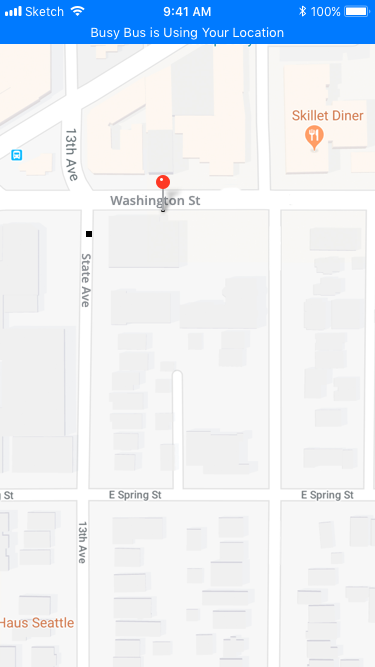
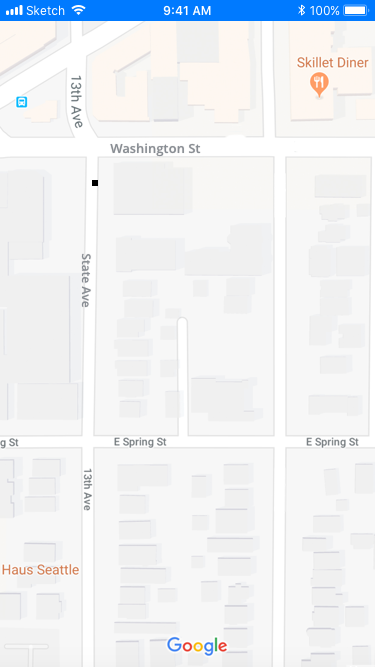
Add files via upload

diff --git a/index.html b/index.html
@@ -10,76 +10,78 @@
     <section class="container">
       <section class="map">
         <img src="images/map.png">
-        </section>
+      </section>
       <nav class="navbox">
-        <img src="images/backarrow.png" class="backarrow">
+        <img src="images/chevron-left.png" class="chevron">
         <div class="busstop">
-            <p><img src="images/stopboxsm.png"> Service at</p>
-            <h2>State & Washington</h2>
-          </div>
+          <h2>State & Washington</h2>
+        </div>
       </nav>
       <nav class="toolbar">
-            <img src="images/toolbar.png">
-          </nav>
+        <img src="images/toolbar.png">
+      </nav>
+      <section class="shadow">
+        <img src="images/pin.png" class="pin">
+      </section>
       <section class="comingup">
         <h3>Coming up</h3>
         <ul class="routediv">
-            <li class="routes">
-              <em class="routenumber">60</em>
-              <div class="destination">
-                <p>To <em class="enddestionation">Randolph/Harbor Dr</em></p>
-                <p><h4>2 </h4>min &bull; 22 min &bull; 42 min</p>
-              </div>
-            </li>
-            <li class="routes">
-              <em class="routenumber">124</em>
-              <div class="destination">
-                <p>To <em class="enddestionation">Navy Pier</em></p>
-                <p><h4>8 </h4>min <em class="alert">(2 min late) </em>&bull; 16 min &bull; 26 min</p>
-              </div>
-            </li>
-            <li class="routes">
-              <em class="routenumber">151</em>
-              <div class="destination">
-                <p>To <em class="enddestionation">Devon/Clark</em></p>
-                <p><h4>13 </h4>min &bull; 29 min &bull; 45 min</p>
-              </div>
-            </li>
-            <li class="routes">
-              <em class="routenumber">J14</em>
-              <div class="destination">
-                <p>To <em class="enddestionation">103rd/Stony Island</em></p>
-                <p><h4>13 </h4>min &bull; 28 min &bull; 43 min</p>
-              </div>
-            </li>
-            <li class="routes">
-              <em class="routenumber">4</em>
-                <div class="destination">
-                  <p>To <em class="enddestionation">Cottage Grove</em></p>
-                  <p class="resumesat">Resumes 12:10am</p>
-                </div>
-              </li>
-            <li class="routes">
-              <em class="routenumber">20</em>
-               <div class="destination">
-                 <p>To <em class="enddestionation">Madison</em></p>
-                 <p class="resumesat">Resumes 12:10am</p>
-               </div>
-             </li>
-            <li class="routes">
-              <em class="routenumber">157</em>
-               <div class="destination">
-                 <p>To <em class="enddestionation">Streeterville/Taylor</em></p>
-                 <p class="resumesat">Resumes 6:00am</p>
-               </div>
-            </li>
-            <li class="routes">
-              <em class="routenumber">6x</em>
-               <div class="destination">
-                 <p>To <em class="enddestionation">Jackson Park - Express</em></p>
-                 <p class="resumesat"><em class="alert">Reroute: See details</em></p>
-               </div>
-            </li>
+          <li class="routes">
+            <em class="routenumber">60</em>
+            <div class="destination">
+              <p>To <em class="enddestionation">Randolph/Harbor Dr</em></p>
+              <p><h4>2 </h4>min &bull; 22 min &bull; 42 min</p>
+            </div>
+          </li>
+          <li class="routes">
+            <em class="routenumber">124</em>
+            <div class="destination">
+              <p>To <em class="enddestionation">Navy Pier</em></p>
+              <p><h4>8 </h4>min <em class="alert">(2 min late) </em>&bull; 16 min &bull; 26 min</p>
+            </div>
+          </li>
+          <li class="routes">
+            <em class="routenumber">151</em>
+            <div class="destination">
+              <p>To <em class="enddestionation">Devon/Clark</em></p>
+              <p><h4>13 </h4>min &bull; 29 min &bull; 45 min</p>
+            </div>
+          </li>
+          <li class="routes">
+            <em class="routenumber">J14</em>
+            <div class="destination">
+              <p>To <em class="enddestionation">103rd/Stony Island</em></p>
+              <p><h4>13 </h4>min &bull; 28 min &bull; 43 min</p>
+            </div>
+          </li>
+          <li class="routes">
+            <em class="routenumber">4</em>
+            <div class="destination">
+              <p>To <em class="enddestionation">Cottage Grove</em></p>
+              <p class="resumesat">Resumes 12:10am</p>
+            </div>
+          </li>
+          <li class="routes">
+            <em class="routenumber">20</em>
+            <div class="destination">
+               <p>To <em class="enddestionation">Madison</em></p>
+               <p class="resumesat">Resumes 12:10am</p>
+            </div>
+          </li>
+          <li class="routes">
+            <em class="routenumber">157</em>
+             <div class="destination">
+               <p>To <em class="enddestionation">Streeterville/Taylor</em></p>
+               <p class="resumesat">Resumes 6:00am</p>
+             </div>
+          </li>
+          <li class="routes">
+            <em class="routenumber">6x</em>
+             <div class="destination">
+               <p>To <em class="enddestionation">Jackson Park - Express</em></p>
+               <p class="resumesat"><em class="alert">Reroute: See details</em></p>
+             </div>
+          </li>
         </ul>
       </section>
     </section>

diff --git a/css/style.css b/css/style.css
@@ -16,14 +16,22 @@ body {
 }
 
 .map {
-  background-image: url("images/map.png");
+  background-image: url("images/map2.png");
   position: fixed;
+}
+
+.pin {
+  display: inline;
+  position: fixed;
+  margin-top: 28px;
+  margin-left: 186px;
+
 }
 
 .navbox {
   width: 375px;
-  height: 64px;
-  margin-top: 44px;
+  height: 50px;
+  margin-top: 21px;
   display: inline-block;
   position: fixed;
   background-color: rgba(252,252,252,0.6);
@@ -33,51 +41,62 @@ body {
   position: fixed;
   margin-top: 629px;
 }
-.backarrow {
+
+.chevron {
   display: inline-block;
   float: left;
-  margin: 1.25em 1em 1em 1em;
+  margin: 1.35em 1em 1em 1em;
+  width: 2.5%;
+  height: auto;
 }
 
 .busstop {
-  padding-top: .75em;
+  padding-top: .55em;
   text-align: left;
 }
 
-.navbox:after {
+.shadow {
   content:'';
-  height: 159px;
+  height: 136px;
   width: 375px;
-  background-color: rgba(195,190,197,0.25);
-  margin-top: 0px;
-  position: absolute;
+  background-color: rgba(195,190,197,0.20);
+  margin-top: 71px;
+  float: left;
+  position: fixed;
+  display: inline-block;
 }
 
 .comingup {
   display: block;
   position: fixed;
   width: 375px;
-  margin-top: 263px;
-  background-color: rgba(252,252,252,0.6);
-}
-
-.whitebox {
-  display: inline;
-  margin-top: 263px;
-  width: 375px;
+  margin-top: 207px;
+  background-color: rgba(252,252,252,0.5);
 }
 
 .routediv {
   display: block;
-  background-color: rgba(252,252,252,0.6);
+  background-color: rgba(252,252,252,0.5);
   overflow-y:scroll;
   width: 375px;
-  height: 316px;
+  height: 373px;
 }
 
 .routes {
   display: inline-block;
-  background-color: rgba(252,252,252);
+  background-color: rgba(255,255,255);
+  border-top: 1px solid #d9d9d9;
+  padding-top: 8px;
+  width: 343px;
+  margin-left: 16px;
+  padding-bottom: 3px;
+  height: 55px;
+}
+
+/*old routes
+.routesb {
+  display: inline-block;
+  background-color: rgba(255,255,255);
   border-top: 1px solid #afafaf;
   border-right: 1px solid #afafaf;
   border-bottom: 1px solid #d9d9d9;
@@ -87,20 +106,14 @@ body {
   margin-left: 16px;
   margin-bottom: 3px;
   height: 55px;
-}
-
-.routes.favorite {
-  border-color: #419722;
-}
+}*/
 
 .routenumber {
-  font-size: 2.5em;
+  font-size: 2.25em;
   text-align: right;
   display: inline-block;
   width: 80px;
-  padding-right: 8px;
-  border-right: 1px solid #979797;
-  line-height: 25px;
+  padding-right: 10px;
   margin-right: 8px;
 }
 
@@ -132,15 +145,16 @@ h3 {
   padding: 16px;
 }
 
-h3:before {
+/*3:before {
   content:'';
   margin-left:-4px;
-  width:350px;
+  width:354px;
   height:1px;
   background:#cccccc;
   position:absolute;
   top:46px;
 }
+*/
 
 h4 {
   font-size: 1.28em;
@@ -155,4 +169,14 @@ ul {
 li {
   list-style: none;
   margin-left: .5em;
+}
+
+.whitebox {
+  display: inline;
+  margin-top: 263px;
+  width: 375px;
+}
+
+.routes.favorite {
+  border-color: #419722;
 }
